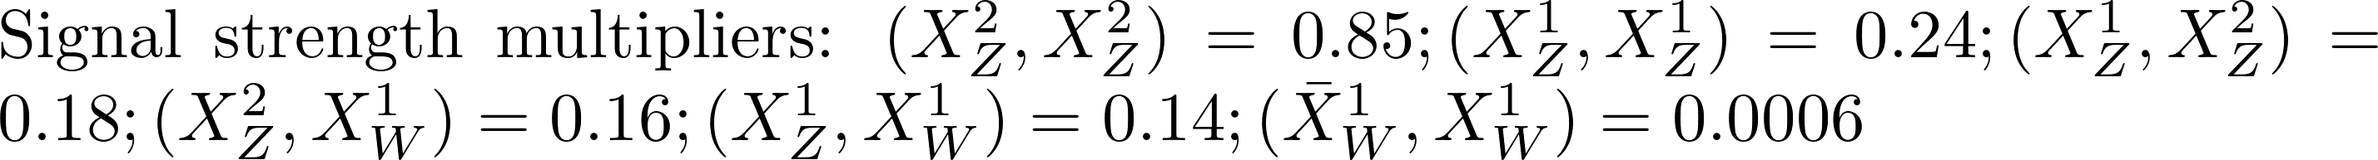
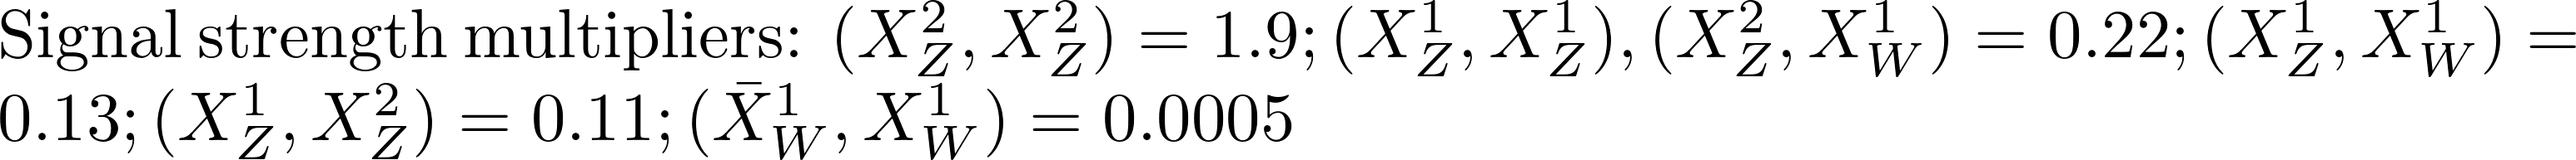
automated update by plotHiscore.py to rundir1_320:     K=8.208 TL=18.67 walkerid=101

diff --git a/protomodels/rundir1_320/index.html b/protomodels/rundir1_320/index.html
@@ -1,27 +1,27 @@
 <html>
 <body>
 <center>
-<table><td><h1>Current best protomodel: <i>K</i>=8.14, <i>TL</i>=18.82</h1><td><img height=60px src=https://smodels.github.io//protomodels/logos/protomodel_lego.png></table>
+<table><td><h1>Current best protomodel: <i>K</i>=8.21, <i>TL</i>=18.67</h1><td><img height=60px src=https://smodels.github.io//protomodels/logos/protomodel_lego.png></table>
 </center>
-<b><a href=./hiscore.slha>ProtoModel</a> <a href=./pmodel.dict>(dict)</a> produced with <a href=https://smodels.github.io//docs/Validation320>database v3.2.0</a>, allowed_extr 0.0 in walker 120 step 595.</b> <br>
+<b><a href=./hiscore.slha>ProtoModel</a> <a href=./pmodel.dict>(dict)</a> produced with <a href=https://smodels.github.io//docs/Validation320>database v3.2.0</a>, allowed_extr 0.0 in walker 101 step 646.</b> <br>
 <table width=80%>
 <tr><td>
 <br><b>Critics:</b> passed both critics<br>
-<br><b>UL Critic: 1/2 analyses exclude</b><br>
-ATLAS-EXOT-2018-06:EM5:: <span style='color: darkred;'>r<sub>obs</sub>=1.822, r<sub>exp</sub>=1.887</span><br>
-CMS-EXO-20-004:SR_2018_13:: <span style='color: darkgreen;'>r<sub>obs</sub>=0.534, r<sub>exp</sub>=0.718</span><br>
-ATLAS-SUSY-2018-16:ul:: <span style='color: darkgreen;'>r<sub>obs</sub>=0.404, r<sub>exp</sub>=0.436</span><br>
-<br><b>LLHD Critic:</b> ATLAS-EXOT-2018-06:EM5, CMS-EXO-20-004:matrix.cov, CMS-SUS-16-039-agg:matrix.cov, CMS-SUS-16-048:matrix.cov:: <span style='color: darkred;'>r<sub>obs</sub>=1.27, r<sub>exp</sub>=3.03</span><br>
+<br><b>UL Critic: 1/1 analyses exclude</b><br>
+ATLAS-EXOT-2018-06:EM5:: <span style='color: darkred;'>r<sub>obs</sub>=1.582, r<sub>exp</sub>=1.639</span><br>
+ATLAS-SUSY-2018-16:ul:: <span style='color: darkgreen;'>r<sub>obs</sub>=0.603, r<sub>exp</sub>=0.65</span><br>
+CMS-EXO-20-004:SR_2018_13:: <span style='color: darkgreen;'>r<sub>obs</sub>=0.494, r<sub>exp</sub>=0.664</span><br>
+<br><b>LLHD Critic:</b> ATLAS-EXOT-2018-06:EM5, CMS-EXO-20-004:matrix.cov, CMS-SUS-16-039-agg:matrix.cov, CMS-SUS-16-048:matrix.cov:: <span style='color: darkred;'>r<sub>obs</sub>=1.15, r<sub>exp</sub>=2.9</span><br>
 </ul>
-<td><img width=600px src=./texdoc.png?1792666891>
-<br><span style='font-size: smaller; color: darkred;'>Last updated: Thu Oct 22 13:01:31 2026</span>
-<br><br><b>6 predictions available. Highest r values are:</b><br><ul>
-<li><a href=https://atlas.web.cern.ch/Atlas/GROUPS/PHYSICS/PAPERS/EXOT-2018-06/>ATLAS-EXOT-2018-06</a>:EM5:TChiZISRqq,TChiWISRll,TChiISR,TChiZISRll,TChiWWISRqq r=1.82, r<sub>exp</sub>=1.89<br>
-<li><a href=http://cms-results.web.cern.ch/cms-results/public-results/publications/EXO-20-004/>CMS-EXO-20-004</a>:SR_2018_13:TChiZISRqq,TChiWISRll,TChiISR,TChiZISRll,TChiWWISRqq r=0.53, r<sub>exp</sub>=0.72<br>
-<li><a href=https://atlas.web.cern.ch/Atlas/GROUPS/PHYSICS/PAPERS/SUSY-2018-16/>ATLAS-SUSY-2018-16</a>:ul:TChiWZoff r=0.40, r<sub>exp</sub>=0.44<br>
-<li><a href=http://cms-results.web.cern.ch/cms-results/public-results/publications/SUS-16-048/index.html>CMS-SUS-16-048</a>:Ewkino_lowMET_M_10to20:TChiWZoff r=0.13, r<sub>exp</sub>=0.17<br>
+<td><img width=600px src=./texdoc.png?1792668509>
+<br><span style='font-size: smaller; color: darkred;'>Last updated: Thu Oct 22 13:28:29 2026</span>
+<br><br><b>8 predictions available. Highest r values are:</b><br><ul>
+<li><a href=https://atlas.web.cern.ch/Atlas/GROUPS/PHYSICS/PAPERS/EXOT-2018-06/>ATLAS-EXOT-2018-06</a>:EM5:TChiZISRll,TChiZISRqq,TChiWWISRqq,TChiWISRll,TChiISR r=1.58, r<sub>exp</sub>=1.64<br>
+<li><a href=https://atlas.web.cern.ch/Atlas/GROUPS/PHYSICS/PAPERS/SUSY-2018-16/>ATLAS-SUSY-2018-16</a>:ul:TChiWZoff r=0.60, r<sub>exp</sub>=0.65<br>
+<li><a href=http://cms-results.web.cern.ch/cms-results/public-results/publications/EXO-20-004/>CMS-EXO-20-004</a>:SR_2018_13:TChiZISRll,TChiZISRqq,TChiWWISRqq,TChiWISRll,TChiISR r=0.49, r<sub>exp</sub>=0.66<br>
+<li><a href=http://cms-results.web.cern.ch/cms-results/public-results/publications/SUS-16-048/index.html>CMS-SUS-16-048</a>:Ewkino_lowMET_M_10to20:TChiWZoff r=0.19, r<sub>exp</sub>=0.26<br>
 </table><table style="width:80%">
-<td width=40%><img height=450px src=./mass_hierarchy.png?1792666891><td width=60%><font size=-3><iframe type="text/html" height="350px" width="100%" frameborder="0" src="./rawnumbers.html?1792666891"></iframe></font>
+<td width=40%><img height=450px src=./mass_hierarchy.png?1792668509><td width=60%><font size=-3><iframe type="text/html" height="350px" width="100%" frameborder="0" src="./rawnumbers.html?1792668509"></iframe></font>
 </table>
 </body>
 </html>

diff --git a/protomodels/rundir1_320/rawnumbers.html b/protomodels/rundir1_320/rawnumbers.html
@@ -1,11 +1,13 @@
 <table>
 <tr><th>Analysis Name</th><th>Type</th><th>Dataset</th><th>Topos</th><th>Observed</th><th>Expected</th><th>Approx &sigma;</th><th>Particles</th>
 </tr>
-<tr><td><a href=https://atlas.web.cern.ch/Atlas/GROUPS/PHYSICS/PAPERS/EXOT-2018-06/>ATLAS-EXOT-2018-06</a></td><td>em</td> <td>EM10</td><td>TChiISR, TChiWISRll, TChiWWISRqq, TChiZISRll, TChiZISRqq</td><td>413</td><td>359.00 +/- 10.00</td><td style="text-align:right">2.4 &sigma;</td><td style="text-align:right">X<sup>1</sup><sub>W</sub>, X<sup>2</sup><sub>Z</sub>, X<sup>1</sup><sub>Z</sub></td></tr>
-<tr><td><a href=http://cms-results.web.cern.ch/cms-results/public-results/publications/EXO-20-004/>CMS-EXO-20-004</a></td><td>comb</td> <td>-</td><td>TChiISR, TChiWISRll, TChiWWISRqq, TChiZISRll, TChiZISRqq</td><td> 2e+02 fb </td><td> 1e+02 fb</td><td style="text-align:right">2.3 &sigma;</td><td style="text-align:right">X<sup>1</sup><sub>W</sub>, X<sup>2</sup><sub>Z</sub>, X<sup>1</sup><sub>Z</sub></td></tr>
+<tr><td><a href=https://atlas.web.cern.ch/Atlas/GROUPS/PHYSICS/PAPERS/EXOT-2018-06/>ATLAS-EXOT-2018-06</a></td><td>em</td> <td>EM10</td><td>TChiISR, TChiWISRll, TChiWWISRqq, TChiZISRll, TChiZISRqq</td><td>413</td><td>359.00 +/- 10.00</td><td style="text-align:right">2.5 &sigma;</td><td style="text-align:right">X<sup>1</sup><sub>W</sub>, X<sup>2</sup><sub>Z</sub>, X<sup>1</sup><sub>Z</sub></td></tr>
+<tr><td><a href=http://cms-results.web.cern.ch/cms-results/public-results/publications/EXO-20-004/>CMS-EXO-20-004</a></td><td>comb</td> <td>-</td><td>TChiISR, TChiWISRll, TChiWWISRqq, TChiZISRll, TChiZISRqq</td><td> 1e+02 fb </td><td> 1e+02 fb</td><td style="text-align:right">2.3 &sigma;</td><td style="text-align:right">X<sup>1</sup><sub>W</sub>, X<sup>2</sup><sub>Z</sub>, X<sup>1</sup><sub>Z</sub></td></tr>
 <tr><td><a href=http://cms-results.web.cern.ch/cms-results/public-results/publications/SUS-16-039/index.html>CMS-SUS-16-039-agg</a></td><td>comb</td> <td>-</td><td>TChiWZoff</td><td> 1 fb </td><td> 0.8 fb</td><td style="text-align:right">2.0 &sigma;</td><td style="text-align:right">X<sup>1</sup><sub>W</sub>, X<sup>2</sup><sub>Z</sub>, X<sup>1</sup><sub>Z</sub></td></tr>
-<tr><td><a href=http://cms-results.web.cern.ch/cms-results/public-results/publications/SUS-16-048/index.html>CMS-SUS-16-048</a></td><td>comb</td> <td>-</td><td>TChiWZoff</td><td> 2 fb </td><td> 1 fb</td><td style="text-align:right">0.5 &sigma;</td><td style="text-align:right">X<sup>2</sup><sub>Z</sub>, X<sup>1</sup><sub>Z</sub></td></tr>
+<tr><td><a href=http://cms-results.web.cern.ch/cms-results/public-results/publications/SUS-16-048/index.html>CMS-SUS-16-048</a></td><td>comb</td> <td>-</td><td>TChiWZoff</td><td> 2 fb </td><td> 1 fb</td><td style="text-align:right">0.6 &sigma;</td><td style="text-align:right">X<sup>2</sup><sub>Z</sub>, X<sup>1</sup><sub>Z</sub></td></tr>
 <tr><td><a href=https://atlas.web.cern.ch/Atlas/GROUPS/PHYSICS/PAPERS/SUSY-2013-11/>ATLAS-SUSY-2013-11</a></td><td>em</td> <td>WWa-DF</td><td>TChiWWoff</td><td>70</td><td>73.60 +/- 7.90</td><td style="text-align:right">-0.3 &sigma;</td><td style="text-align:right">X<sup>1</sup><sub>W</sub>, X<sup>1</sup><sub>Z</sub></td></tr>
 </table>
 <table style='color:grey'>
-<tr><th>Not in Best Combo</th><th>Type</th><th>Dataset</th><th>Topos</th><th>Observed</th><th>Expected</th><th>Approx &sigma;</th><th>Particles</th></table>
+<tr><th>Not in Best Combo</th><th>Type</th><th>Dataset</th><th>Topos</th><th>Observed</th><th>Expected</th><th>Approx &sigma;</th><th>Particles</th><tr><td><a href=https://atlas.web.cern.ch/Atlas/GROUPS/PHYSICS/PAPERS/SUSY-2013-02/>ATLAS-SUSY-2013-02</a></td><td>em</td> <td>SR4jlm</td><td>T1</td><td>2169</td><td>2120.00 +/- 110.00</td><td style="text-align:right">0.4 &sigma;</td><td style="text-align:right">X<sup>1</sup><sub>W</sub>, X<sup>1</sup><sub>Z</sub></td></tr>
+<tr><td><a href=https://atlas.web.cern.ch/Atlas/GROUPS/PHYSICS/PAPERS/SUSY-2013-02/>ATLAS-SUSY-2013-02</a></td><td>em</td> <td>SR2jl</td><td>T1</td><td>12315</td><td>13000.00 +/- 1000.00</td><td style="text-align:right">-0.7 &sigma;</td><td style="text-align:right">X<sup>1</sup><sub>W</sub>, X<sup>1</sup><sub>Z</sub></td></tr>
+</table>
